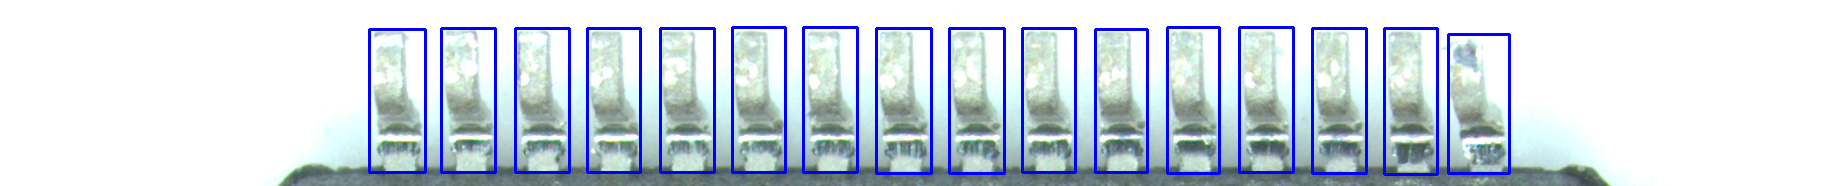
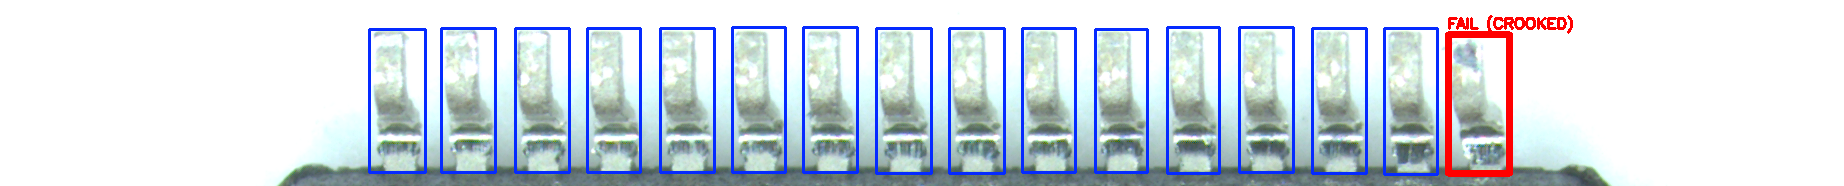
With new changes

Changed region(s): [[0.1855, 0.0806, 0.8655, 0.9677]]

diff --git a/src/split_images.py b/src/split_images.py
@@ -15,89 +15,119 @@ def crop_pin_rows(input_path, output_dir="output"):
         print(f"Error: Could not read image {input_path}")
         return False
     
-    # Convert to grayscale
+    # Convert to grayscale for easier processing
     gray = cv2.cvtColor(image, cv2.COLOR_BGR2GRAY)
     
-    # Apply CLAHE for contrast
+    # Apply CLAHE (Contrast Limited Adaptive Histogram Equalization)
+    # This enhances local contrast, making the IC body and pins more distinguishable
+    # clipLimit=3.0 prevents over-amplification of noise
+    # tileGridSize=(8,8) divides image into 8x8 tiles for localized enhancement
     clahe = cv2.createCLAHE(clipLimit=3.0, tileGridSize=(8, 8))
     gray_contrast = clahe.apply(gray)
     
-    # --- Inner black body detection ---
+    # Detect the inner dark IC body (without pins)
+    # Use a lower threshold (87) to detect the darker IC chip body
     inner_thresh_value = 87
     _, inner_thresh = cv2.threshold(gray_contrast, inner_thresh_value, 255, cv2.THRESH_BINARY_INV)
     
+    # Apply morphological opening to remove noise (erosion followed by dilation)
     kernel = np.ones((5,5), np.uint8)
     inner_thresh = cv2.morphologyEx(inner_thresh, cv2.MORPH_OPEN, kernel)
     
+    # Find contours of the dark IC body
     inner_contours, _ = cv2.findContours(inner_thresh, cv2.RETR_EXTERNAL, cv2.CHAIN_APPROX_SIMPLE)
     
     if not inner_contours:
         print("No inner contours found")
         return False
     
+    # Get the largest contour (the IC body) and its bounding rectangle
     inner_largest = max(inner_contours, key=cv2.contourArea)
+    # ix, iy: top-left corner coordinates of inner body
+    # iw, ih: width and height of inner body
     ix, iy, iw, ih = cv2.boundingRect(inner_largest)
     
-    # --- Outer detection including pins ---
+    # Detect the outer boundary including the pins
+    # Use a higher threshold (215) to capture the lighter-colored pins
     outer_thresh_value = 215
     _, outer_thresh = cv2.threshold(gray_contrast, outer_thresh_value, 255, cv2.THRESH_BINARY_INV)
     
+    # Apply morphological closing to fill gaps between pins (dilation followed by erosion)
+    # This creates a continuous boundary around the entire chip including pins
     outer_kernel = np.ones((3,3), np.uint8)
     outer_thresh = cv2.morphologyEx(outer_thresh, cv2.MORPH_CLOSE, outer_kernel)
     
+    # Find contours of the entire chip (body + pins)
     outer_contours, _ = cv2.findContours(outer_thresh, cv2.RETR_EXTERNAL, cv2.CHAIN_APPROX_SIMPLE)
     
     if not outer_contours:
         print("No outer contours found")
         return False
     
+    # Get the largest contour and its bounding rectangle
     outer_largest = max(outer_contours, key=cv2.contourArea)
+    # ox, oy: top-left corner coordinates of outer boundary
+    # ow, oh: width and height of outer boundary
     ox, oy, ow, oh = cv2.boundingRect(outer_largest)
     
-    # Add 20px padding to the outer box
+    # Add padding around the outer boundary to ensure we don't cut off any pins
     padding = 30
     image_height, image_width = image.shape[:2]
+    # Expand outer box by padding, but ensure we stay within image boundaries
     ox = max(0, ox - padding)
     oy = max(0, oy - padding)
     ow = min(image_width - ox, ow + 2 * padding)
     oh = min(image_height - oy, oh + 2 * padding)
     
-    # Get base filename without extension
+    # Get base filename without extension for naming output files
     base_name = os.path.splitext(os.path.basename(input_path))[0]
     
-    # Calculate and crop pin row regions
+    # Crop each pin row (space between inner and outer boundaries)
     cropped_count = 0
     
-    # Top row: from outer top to inner top
+    # Top row: Region from outer top edge to inner top edge
+    # top_row format: (x, y, width, height)
+    #   [0] = x-coordinate (ox)
+    #   [1] = y-coordinate (oy)
+    #   [2] = width (ow)
+    #   [3] = height (iy - oy) <- The vertical distance from outer to inner
     top_row = (ox, oy, ow, iy - oy)
-    if top_row[3] > 5:  # height > 5 pixels (has pins)
+    if top_row[3] > 5:  # Only save if height > 5 pixels (indicates pins are present)
+        # Slice image using: image[y_start:y_end, x_start:x_end]
         top_crop = image[top_row[1]:top_row[1]+top_row[3], top_row[0]:top_row[0]+top_row[2]]
         output_path = os.path.join(output_dir, f"{base_name}_top_pins.png")
         cv2.imwrite(output_path, top_crop)
         print(f"Saved top row: {output_path} (size: {top_row[2]}x{top_row[3]})")
         cropped_count += 1
     
-    # Bottom row: from inner bottom to outer bottom
+    # Bottom row: Region from inner bottom edge to outer bottom edge
+    # bottom_row[3] = height from inner bottom (iy + ih) to outer bottom (oy + oh)
     bottom_row = (ox, iy + ih, ow, (oy + oh) - (iy + ih))
-    if bottom_row[3] > 5:
+    if bottom_row[3] > 5:  # Only save if height > 5 pixels
         bottom_crop = image[bottom_row[1]:bottom_row[1]+bottom_row[3], bottom_row[0]:bottom_row[0]+bottom_row[2]]
         output_path = os.path.join(output_dir, f"{base_name}_bottom_pins.png")
         cv2.imwrite(output_path, bottom_crop)
         print(f"Saved bottom row: {output_path} (size: {bottom_row[2]}x{bottom_row[3]})")
         cropped_count += 1
     
-    # Left row: from outer left to inner left
+    # Left row: Region from outer left edge to inner left edge
+    # left_row[2] = width from outer left (ox) to inner left (ix)
     left_row = (ox, oy, ix - ox, oh)
-    if left_row[2] > 5:  # width > 5 pixels (has pins)
+    if left_row[2] > 5:  # Only save if width > 5 pixels (indicates pins are present)
         left_crop = image[left_row[1]:left_row[1]+left_row[3], left_row[0]:left_row[0]+left_row[2]]
         output_path = os.path.join(output_dir, f"{base_name}_left_pins.png")
         cv2.imwrite(output_path, left_crop)
         print(f"Saved left row: {output_path} (size: {left_row[2]}x{left_row[3]})")
         cropped_count += 1
     
-    # Right row: from inner right to outer right
+    # Right row: Region from inner right edge to outer right edge
+    # right_row format: (x, y, width, height)
+    #   [0] = x-coordinate (ix + iw) - starts at the inner right x
+    #   [1] = y-coordinate (oy) - starts at the outer top y
+    #   [2] = width ((ox + ow) - (ix + iw)) - The horizontal distance from inner right (ix+iw) to outer right (ox+ow)
+    #   [3] = height (oh) - spans the full outer height
     right_row = (ix + iw, oy, (ox + ow) - (ix + iw), oh)
-    if right_row[2] > 5:
+    if right_row[2] > 5:  # Only save if width > 5 pixels
         right_crop = image[right_row[1]:right_row[1]+right_row[3], right_row[0]:right_row[0]+right_row[2]]
         output_path = os.path.join(output_dir, f"{base_name}_right_pins.png")
         cv2.imwrite(output_path, right_crop)

diff --git a/src/detect_bad_pins.py b/src/detect_bad_pins.py
@@ -95,19 +95,22 @@ def replace_blue_with_red(img, bbox, lower_bound, upper_bound, pad=4, red=(0,0,2
     img[y0:y1, x0:x1] = roi
 
 
-def process_directory():
-    if not os.path.exists(SOURCE_DIR):
-        print(f"Error: Source directory '{SOURCE_DIR}' does not exist.")
+def process_directory(source_dir=None, output_dir=None):
+    src = source_dir if source_dir else SOURCE_DIR
+    out = output_dir if output_dir else OUTPUT_DIR
+
+    if not os.path.exists(src):
+        print(f"Error: Source directory '{src}' does not exist.")
         return
 
-    os.makedirs(OUTPUT_DIR, exist_ok=True)
+    os.makedirs(out, exist_ok=True)
 
     types = ('*.png', '*.jpg', '*.jpeg', '*.bmp')
     image_files = []
     for files in types:
-        image_files.extend(glob.glob(os.path.join(SOURCE_DIR, files)))
+        image_files.extend(glob.glob(os.path.join(src, files)))
 
-    print(f"Found {len(image_files)} images in {SOURCE_DIR}...")
+    print(f"Found {len(image_files)} images in {src}...")
 
     target_bgr = hex_to_bgr(TARGET_HEX)
     tolerance = 15
@@ -159,7 +162,7 @@ def process_directory():
 
         if len(box_data) < 2:
             print("   Not enough pins detected for comparison. Skipping.")
-            cv2.imwrite(os.path.join(OUTPUT_DIR, filename), img)
+            cv2.imwrite(os.path.join(out, filename), img)
             continue
 
         # Baseline logic
@@ -318,11 +321,11 @@ def process_directory():
                             cv2.FONT_HERSHEY_SIMPLEX, 0.5, (0, 0, 255), 2)
 
         # Save image
-        output_path = os.path.join(OUTPUT_DIR, filename)
+        output_path = os.path.join(out, filename)
         cv2.imwrite(output_path, img)
 
         status = "DAMAGED PINS FOUND" if damage_found else "ALL OK"
-        print(f"   Status: {status} | Saved to {OUTPUT_DIR}")
+        print(f"   Status: {status} | Saved to {out}")
 
         # Print summary reasons (internal reasons)
         if image_failure_metrics:

diff --git a/src/pin_detection.py b/src/pin_detection.py
@@ -13,9 +13,6 @@ def detect_pins(input_dir='output', output_dir='output_shrunk'):
     # Note: YOLO predict can take a directory path
     results = model.predict(input_dir, save=False, show_conf=False, show_labels=False)
 
-    # Shrink factor (0.9 means 90% of original size)
-    # SHRINK_FACTOR = 0.9
-
     for i, result in enumerate(results):
         # Get original image
         img = result.orig_img.copy()
@@ -26,27 +23,8 @@ def detect_pins(input_dir='output', output_dir='output_shrunk'):
         for box in boxes:
             x1, y1, x2, y2 = box
             
-            # Calculate center and dimensions
-            # w = x2 - x1
-            # h = y2 - y1
-            # cx = x1 + w / 2
-            # cy = y1 + h / 2
-            
-            # Calculate new dimensions
-            # new_w = w * SHRINK_FACTOR
-            # new_h = h * SHRINK_FACTOR
-            
-            # Calculate new coordinates
-            # new_x1 = int(cx - new_w / 2)
-            # new_y1 = int(cy - new_h / 2)
-            # new_x2 = int(cx + new_w / 2)
-            # new_y2 = int(cy + new_h / 2)
-            
-            # Draw new box (Blue color, thickness 2)
-            # cv2.rectangle(img, (new_x1, new_y1), (new_x2, new_y2), (255, 0, 0), 2)
-            
-            # Draw original box (Blue color, thickness 2)
-            cv2.rectangle(img, (int(x1), int(y1)), (int(x2), int(y2)), (255, 0, 0), 2)
+            # Draw original box (Blue color matching detect_bad_pins.py target #052aff -> BGR: 255, 42, 5)
+            cv2.rectangle(img, (int(x1), int(y1)), (int(x2), int(y2)), (255, 42, 5), 2)
             
         # Save image
         # Use original filename if available, otherwise generate one
